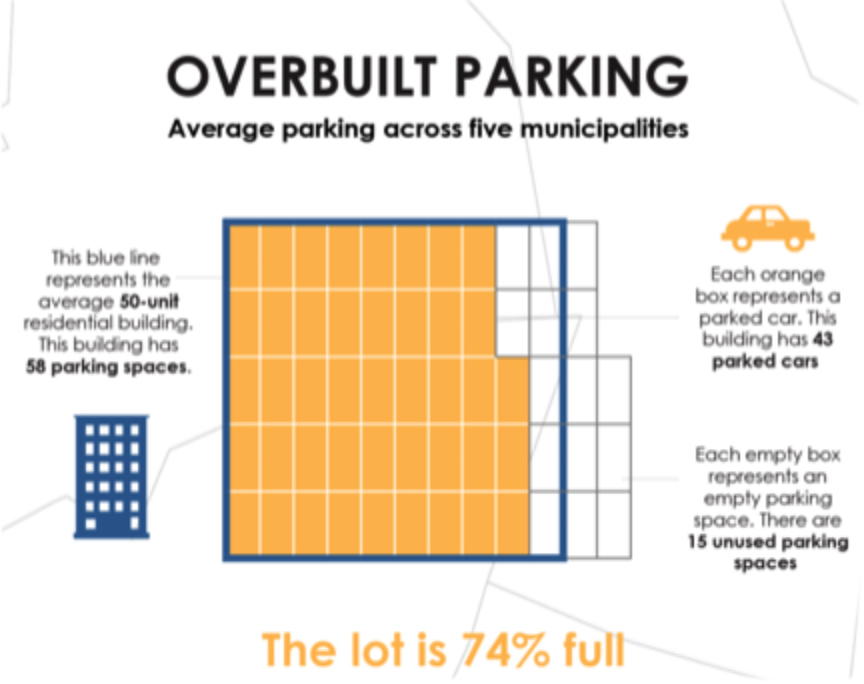
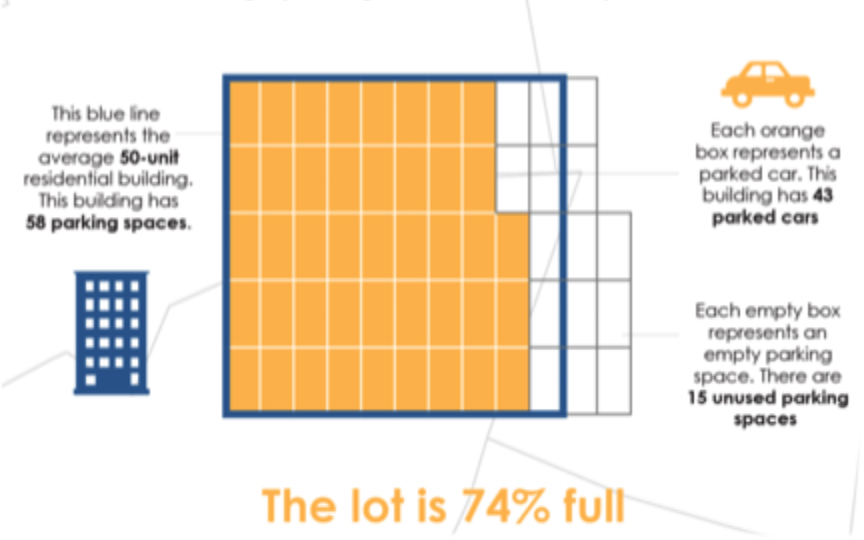
changes

diff --git a/_site/index.html b/_site/index.html
@@ -77,7 +77,7 @@ Free for personal and commercial use under the CCA 3.0 license (html5up.net/lice
 </section> 
   
     <section class="spotlight">
-	<div class="image"><img src="/uploads/pic01.jpg" alt="" /></div><div class="content">
+	<div class="image"><img src="/uploads/overbuilt_parking.jpg" alt="" /></div><div class="content">
 		<h2>Ipsum Lorem</h2>
 		<p><p>Description text</p>
 </p>
